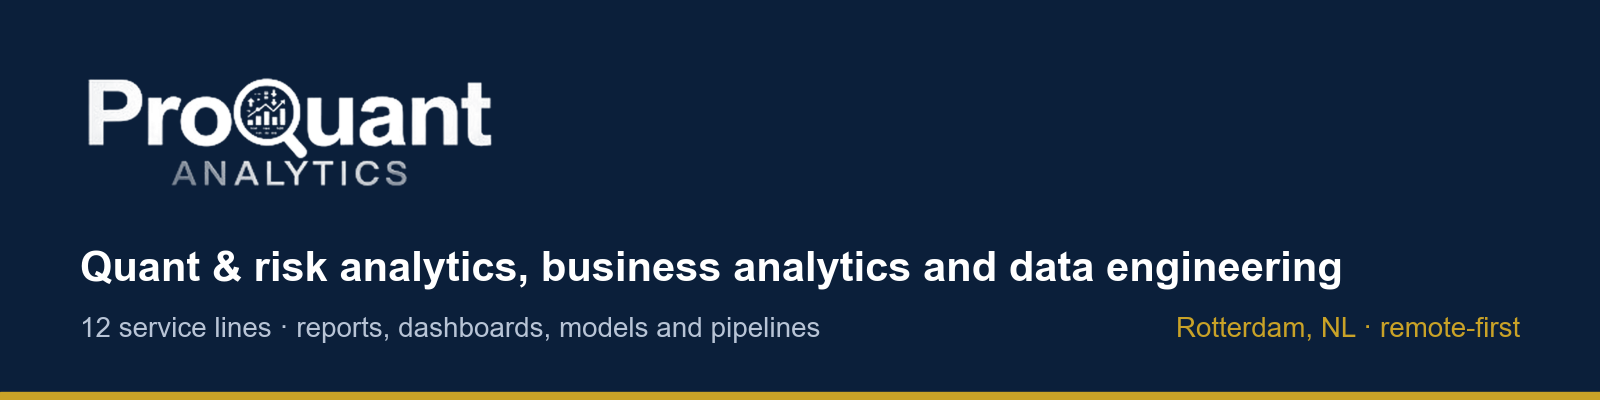
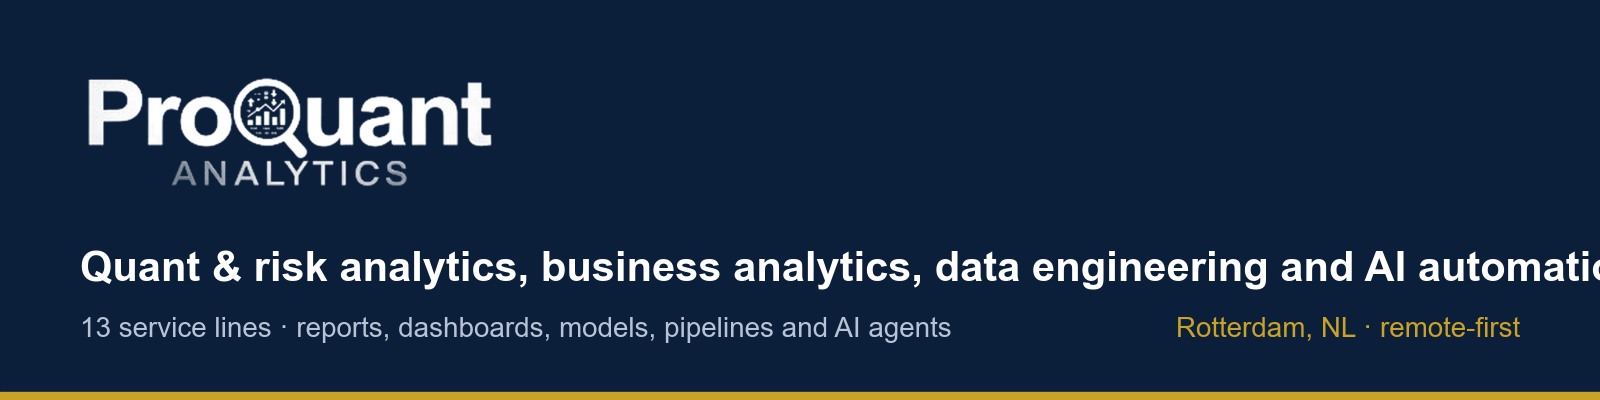
Showcase: README, cover, screenshots and demo deliverables (synthetic data)

Changed region(s): [[0.5625, 0.63, 1.0, 0.72], [0.4062, 0.78, 0.5938, 0.87], [0.0625, 0.81, 0.0938, 0.84]]

diff --git a/README.md b/README.md
@@ -2,9 +2,9 @@
 
 # ProQuant Analytics
 
-**Quant & risk analytics, business analytics and data engineering.** Rotterdam, NL · remote-first.
+**Quant & risk analytics, business analytics, data engineering and AI automation.** Rotterdam, NL · remote-first.
 
-I turn financial and business data into decisions: independent validation of strategies and models, risk and investor reporting, automated management packs, and the data pipelines underneath. Each project below shows the full package a client receives (report, one-page summary, presentation, Excel workbook and interactive dashboard) on synthetic demo data.
+I turn financial and business data into decisions: independent validation of strategies and models, risk and investor reporting, automated management packs, the data pipelines underneath, and AI agents tested before they go live. Each project below shows the full package a client receives (report, one-page summary, presentation, Excel workbook and interactive dashboard) on synthetic demo data.
 
 [![Website](https://img.shields.io/badge/Website-proquant--analytics.com-0B1F3A?style=for-the-badge)](https://www.proquant-analytics.com) [![Email](https://img.shields.io/badge/Email-info%40proquantanalytics.com-C9A227?style=for-the-badge)](mailto:info@proquantanalytics.com)
 
@@ -44,6 +44,14 @@ I turn financial and business data into decisions: independent validation of str
 <table>
 <tr>
 <td width="33%" valign="top"><a href="https://github.com/AbduWars/proquant-12-data-engineering"><img src="https://raw.githubusercontent.com/AbduWars/proquant-12-data-engineering/main/docs/cover.png" alt="Data Engineering (ETL/ELT & Warehouse)"></a><br><b><a href="https://github.com/AbduWars/proquant-12-data-engineering">12 · Data Engineering (ETL/ELT & Warehouse)</a></b><br><sub>One trusted foundation for a business's data: collected, contract-checked, modelled and served every night.</sub></td>
+</tr>
+</table>
+
+## AI Automation (13)
+
+<table>
+<tr>
+<td width="33%" valign="top"><a href="https://github.com/AbduWars/proquant-13-ai-automation-agents"><img src="https://raw.githubusercontent.com/AbduWars/proquant-13-ai-automation-agents/main/docs/cover.png" alt="AI Automation & Agents"></a><br><b><a href="https://github.com/AbduWars/proquant-13-ai-automation-agents">13 · AI Automation & Agents</a></b><br><sub>Which manual work an AI agent can take over safely, measured on your own cases, and installed on your own platform.</sub></td>
 </tr>
 </table>
 
